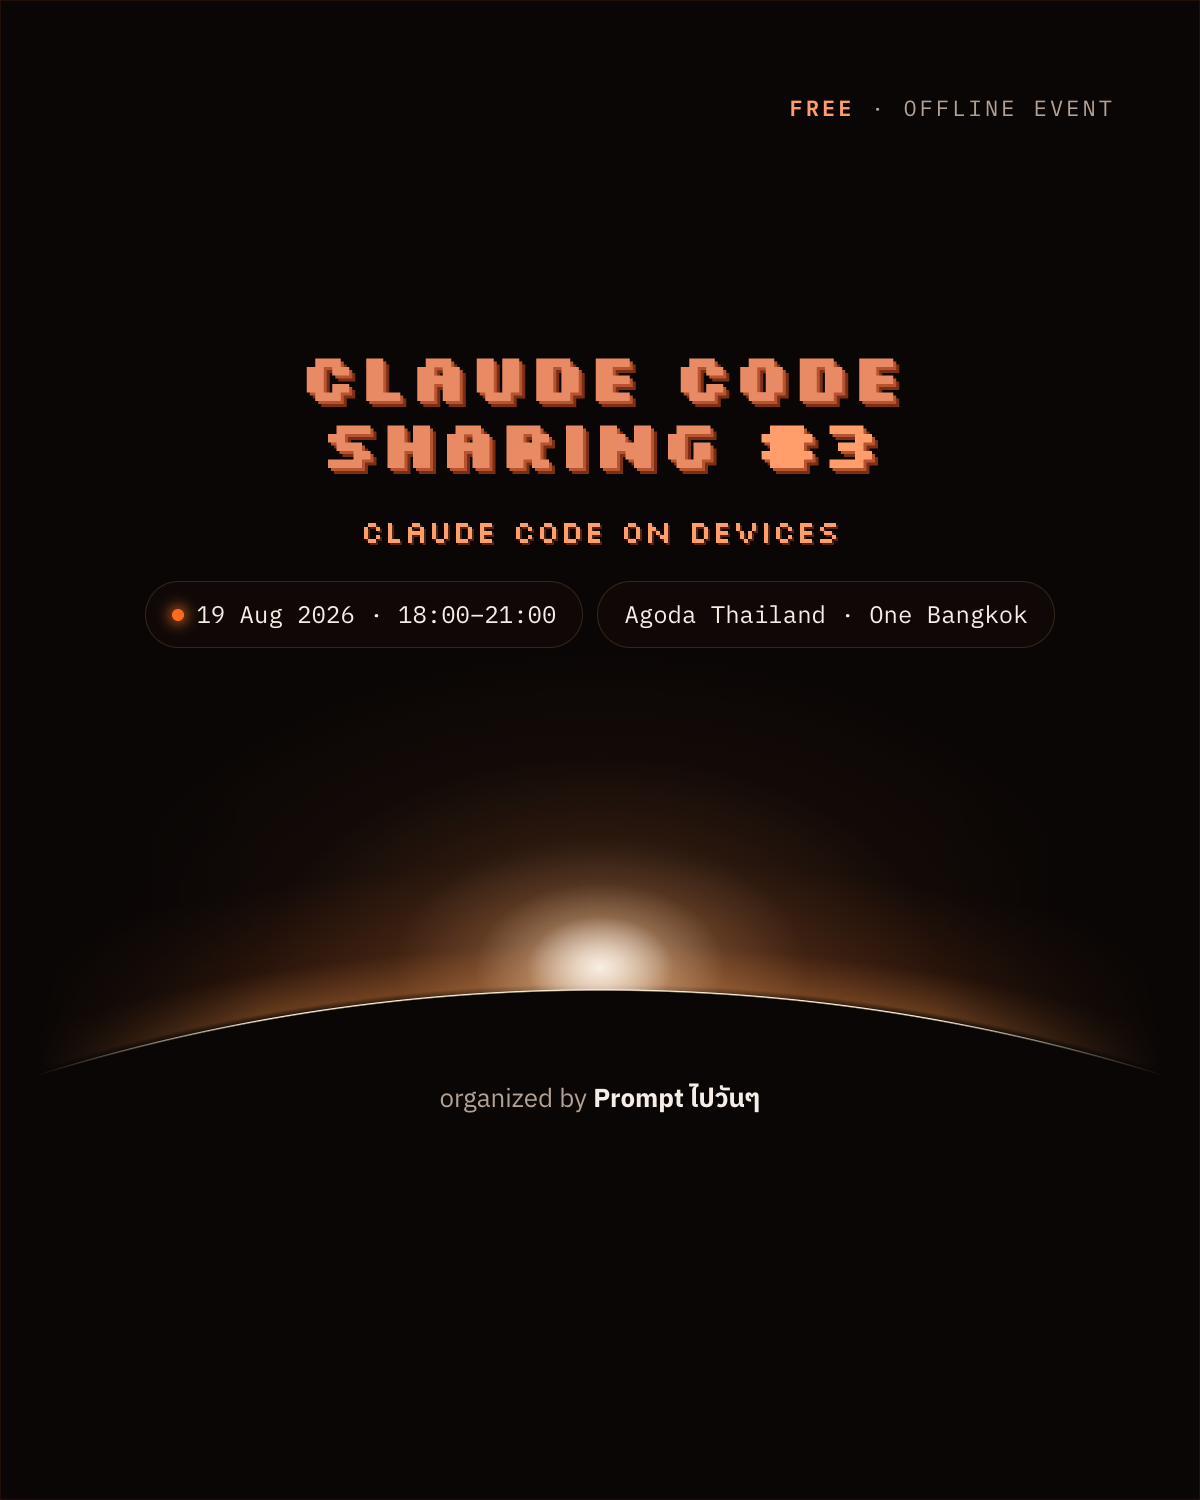
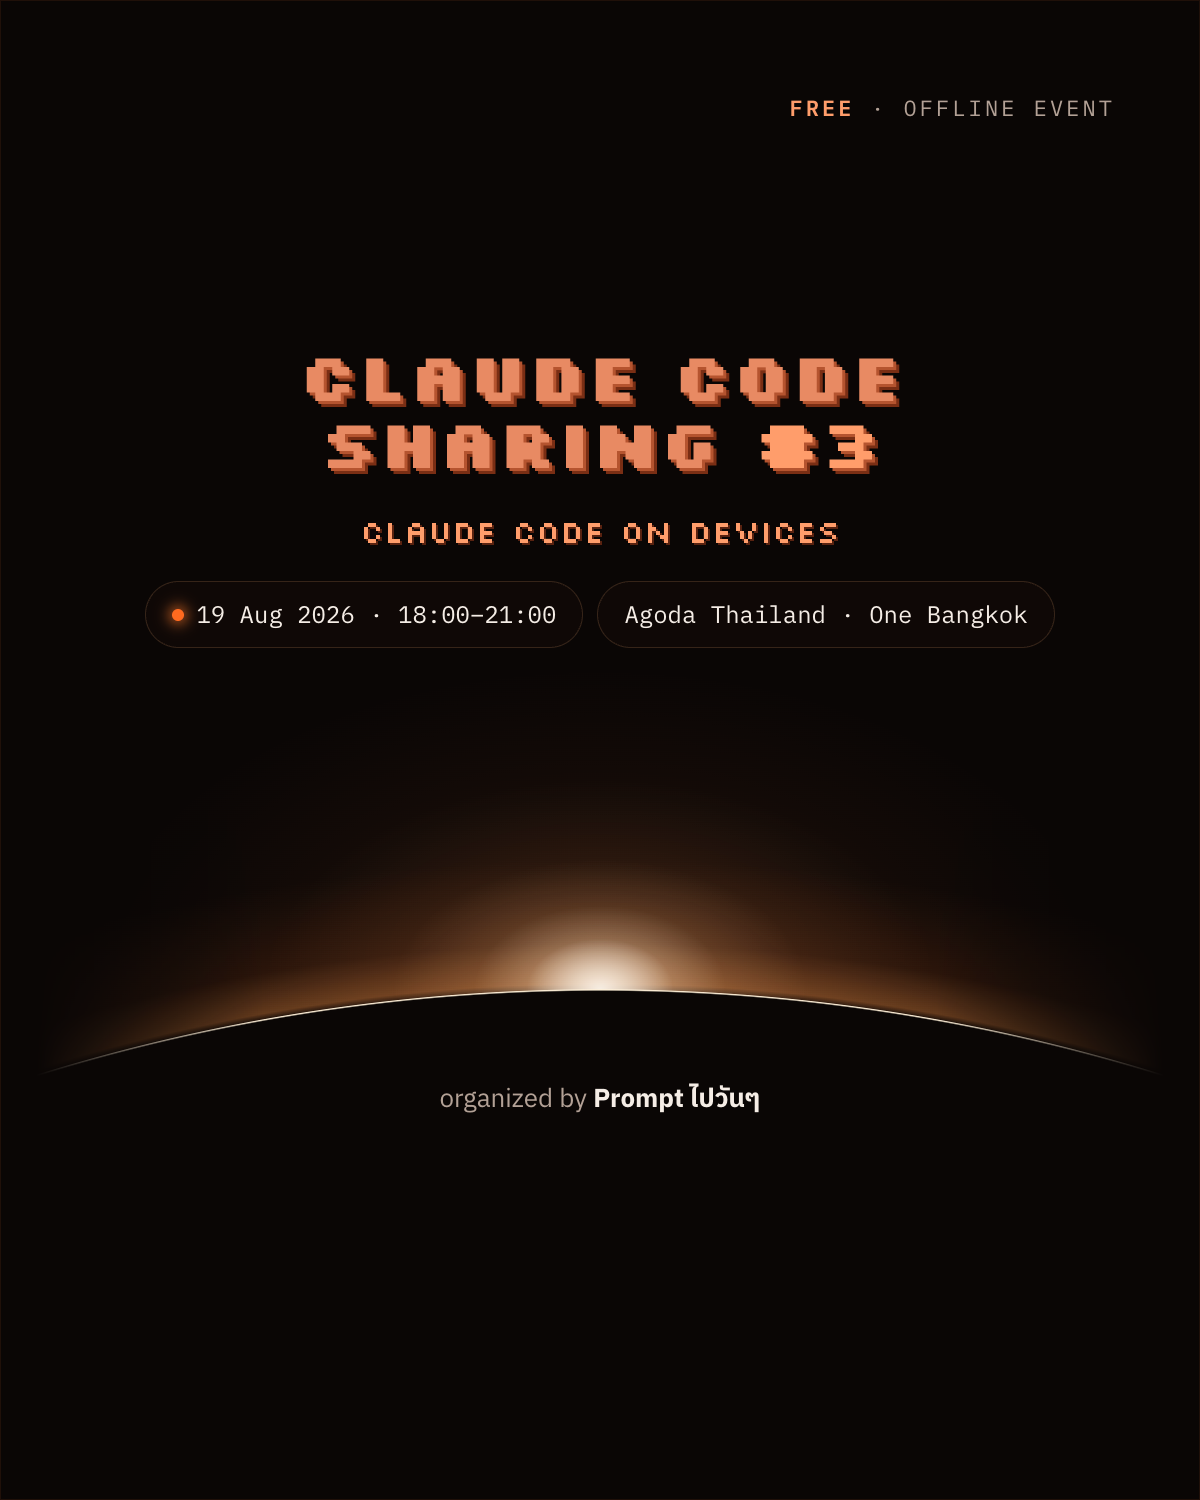
Move orbit center glow onto the horizon line (upper half only shows above the curve)

Changed region(s): [[0.4317, 0.5827, 0.555, 0.6747]]

diff --git a/meetups/claude-code-3/styles.css b/meetups/claude-code-3/styles.css
@@ -52,7 +52,7 @@ a{color:inherit;text-decoration:none}
 .orga-line img{width:34px;height:34px}
 .horizon{--orbit-r:1900px;--line-y:66%;position:absolute;inset:0;z-index:1;pointer-events:none;overflow:hidden;-webkit-mask-image:linear-gradient(90deg,transparent 3%,#000 24%,#000 76%,transparent 97%);mask-image:linear-gradient(90deg,transparent 3%,#000 24%,#000 76%,transparent 97%)}
 /* atmosphere glow ring hugging the limb + sunrise bloom at centre */
-.horizon::before{content:"";position:absolute;inset:0;background:radial-gradient(var(--orbit-r) var(--orbit-r) at 50% calc(var(--line-y) + var(--orbit-r)),var(--void) calc(var(--orbit-r) - .5px),transparent var(--orbit-r)),radial-gradient(ellipse 9% 5% at 50% calc(var(--line-y) - 1.5%),rgba(255,251,244,.85),transparent 68%),radial-gradient(ellipse 15% 8% at 50% calc(var(--line-y) - 1.5%),rgba(255,228,196,.52),transparent 70%),radial-gradient(ellipse 24% 12% at 50% calc(var(--line-y) - 1.5%),rgba(255,192,132,.32),transparent 72%),radial-gradient(ellipse 38% 19% at 50% calc(var(--line-y) - 1.5%),rgba(255,156,88,.19),transparent 74%),radial-gradient(ellipse 56% 28% at 50% calc(var(--line-y) - 1.5%),rgba(255,124,58,.10),transparent 77%),radial-gradient(var(--orbit-r) var(--orbit-r) at 50% calc(var(--line-y) + var(--orbit-r)),transparent calc(var(--orbit-r) - 1px),rgba(255,150,70,.34) calc(var(--orbit-r) + 6px),rgba(255,116,42,.10) calc(var(--orbit-r) + 46px),transparent calc(var(--orbit-r) + 130px))}
+.horizon::before{content:"";position:absolute;inset:0;background:radial-gradient(var(--orbit-r) var(--orbit-r) at 50% calc(var(--line-y) + var(--orbit-r)),var(--void) calc(var(--orbit-r) - .5px),transparent var(--orbit-r)),radial-gradient(ellipse 9% 5% at 50% var(--line-y),rgba(255,251,244,.85),transparent 68%),radial-gradient(ellipse 15% 8% at 50% var(--line-y),rgba(255,228,196,.52),transparent 70%),radial-gradient(ellipse 24% 12% at 50% var(--line-y),rgba(255,192,132,.32),transparent 72%),radial-gradient(ellipse 38% 19% at 50% var(--line-y),rgba(255,156,88,.19),transparent 74%),radial-gradient(ellipse 56% 28% at 50% var(--line-y),rgba(255,124,58,.10),transparent 77%),radial-gradient(var(--orbit-r) var(--orbit-r) at 50% calc(var(--line-y) + var(--orbit-r)),transparent calc(var(--orbit-r) - 1px),rgba(255,150,70,.34) calc(var(--orbit-r) + 6px),rgba(255,116,42,.10) calc(var(--orbit-r) + 46px),transparent calc(var(--orbit-r) + 130px))}
 /* the thin bright rim */
 .horizon::after{content:"";position:absolute;inset:0;background:radial-gradient(var(--orbit-r) var(--orbit-r) at 50% calc(var(--line-y) + var(--orbit-r)),transparent calc(var(--orbit-r) - 1.6px),rgba(255,240,216,.95) calc(var(--orbit-r) - .3px),rgba(255,240,216,.95) var(--orbit-r),transparent calc(var(--orbit-r) + .9px))}
 
@@ -116,7 +116,7 @@ a{color:inherit;text-decoration:none}
 .poster{position:absolute;top:0;left:0;transform-origin:top left;overflow:hidden;background:var(--void);color:var(--bone);box-shadow:0 24px 60px -20px rgba(0,0,0,.8);border:1px solid #201009}
 .poster{--orbit-r:1900px;--line-y:66%}
 .poster .stagelight,.poster .light{-webkit-mask-image:linear-gradient(90deg,transparent 3%,#000 22%,#000 78%,transparent 97%);mask-image:linear-gradient(90deg,transparent 3%,#000 22%,#000 78%,transparent 97%)}
-.poster .stagelight{position:absolute;inset:0;pointer-events:none;background:radial-gradient(var(--orbit-r) var(--orbit-r) at 50% calc(var(--line-y) + var(--orbit-r)),var(--void) calc(var(--orbit-r) - .5px),transparent var(--orbit-r)),radial-gradient(ellipse 9% 5% at 50% calc(var(--line-y) - 1.5%),rgba(255,251,244,.85),transparent 68%),radial-gradient(ellipse 15% 8% at 50% calc(var(--line-y) - 1.5%),rgba(255,228,196,.52),transparent 70%),radial-gradient(ellipse 24% 12% at 50% calc(var(--line-y) - 1.5%),rgba(255,192,132,.32),transparent 72%),radial-gradient(ellipse 38% 19% at 50% calc(var(--line-y) - 1.5%),rgba(255,156,88,.19),transparent 74%),radial-gradient(ellipse 56% 28% at 50% calc(var(--line-y) - 1.5%),rgba(255,124,58,.10),transparent 77%),radial-gradient(var(--orbit-r) var(--orbit-r) at 50% calc(var(--line-y) + var(--orbit-r)),transparent calc(var(--orbit-r) - 1px),rgba(255,150,70,.34) calc(var(--orbit-r) + 6px),rgba(255,116,42,.10) calc(var(--orbit-r) + 46px),transparent calc(var(--orbit-r) + 130px))}
+.poster .stagelight{position:absolute;inset:0;pointer-events:none;background:radial-gradient(var(--orbit-r) var(--orbit-r) at 50% calc(var(--line-y) + var(--orbit-r)),var(--void) calc(var(--orbit-r) - .5px),transparent var(--orbit-r)),radial-gradient(ellipse 9% 5% at 50% var(--line-y),rgba(255,251,244,.85),transparent 68%),radial-gradient(ellipse 15% 8% at 50% var(--line-y),rgba(255,228,196,.52),transparent 70%),radial-gradient(ellipse 24% 12% at 50% var(--line-y),rgba(255,192,132,.32),transparent 72%),radial-gradient(ellipse 38% 19% at 50% var(--line-y),rgba(255,156,88,.19),transparent 74%),radial-gradient(ellipse 56% 28% at 50% var(--line-y),rgba(255,124,58,.10),transparent 77%),radial-gradient(var(--orbit-r) var(--orbit-r) at 50% calc(var(--line-y) + var(--orbit-r)),transparent calc(var(--orbit-r) - 1px),rgba(255,150,70,.34) calc(var(--orbit-r) + 6px),rgba(255,116,42,.10) calc(var(--orbit-r) + 46px),transparent calc(var(--orbit-r) + 130px))}
 .poster .light{position:absolute;inset:0;background:radial-gradient(var(--orbit-r) var(--orbit-r) at 50% calc(var(--line-y) + var(--orbit-r)),transparent calc(var(--orbit-r) - 1.6px),rgba(255,240,216,.95) calc(var(--orbit-r) - .3px),rgba(255,240,216,.95) var(--orbit-r),transparent calc(var(--orbit-r) + .9px))}
 .poster .pcontent{position:relative;z-index:2;height:100%}
 .pk-free{position:absolute;top:6%;right:7%;font-family:"IBM Plex Mono",monospace;letter-spacing:.14em;text-transform:uppercase;color:var(--ash)}
